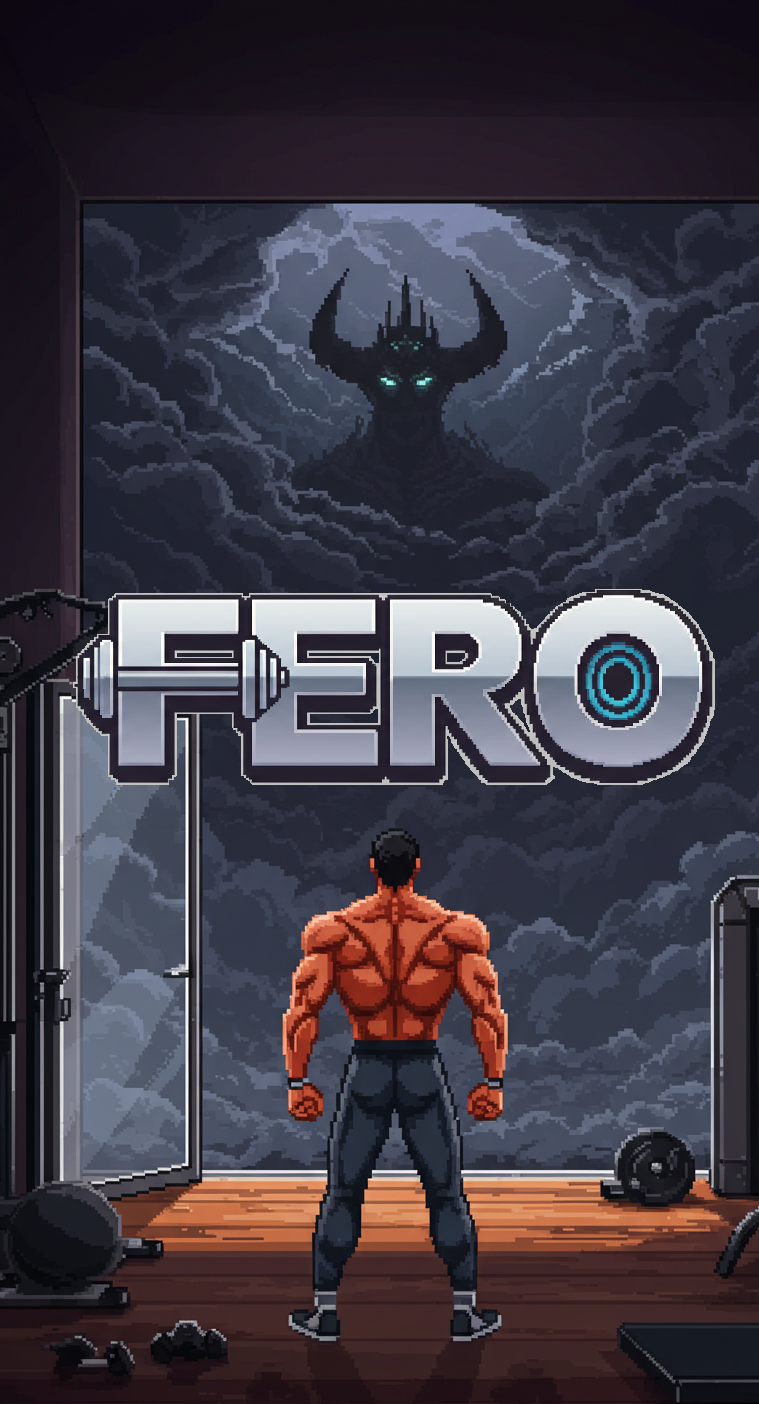
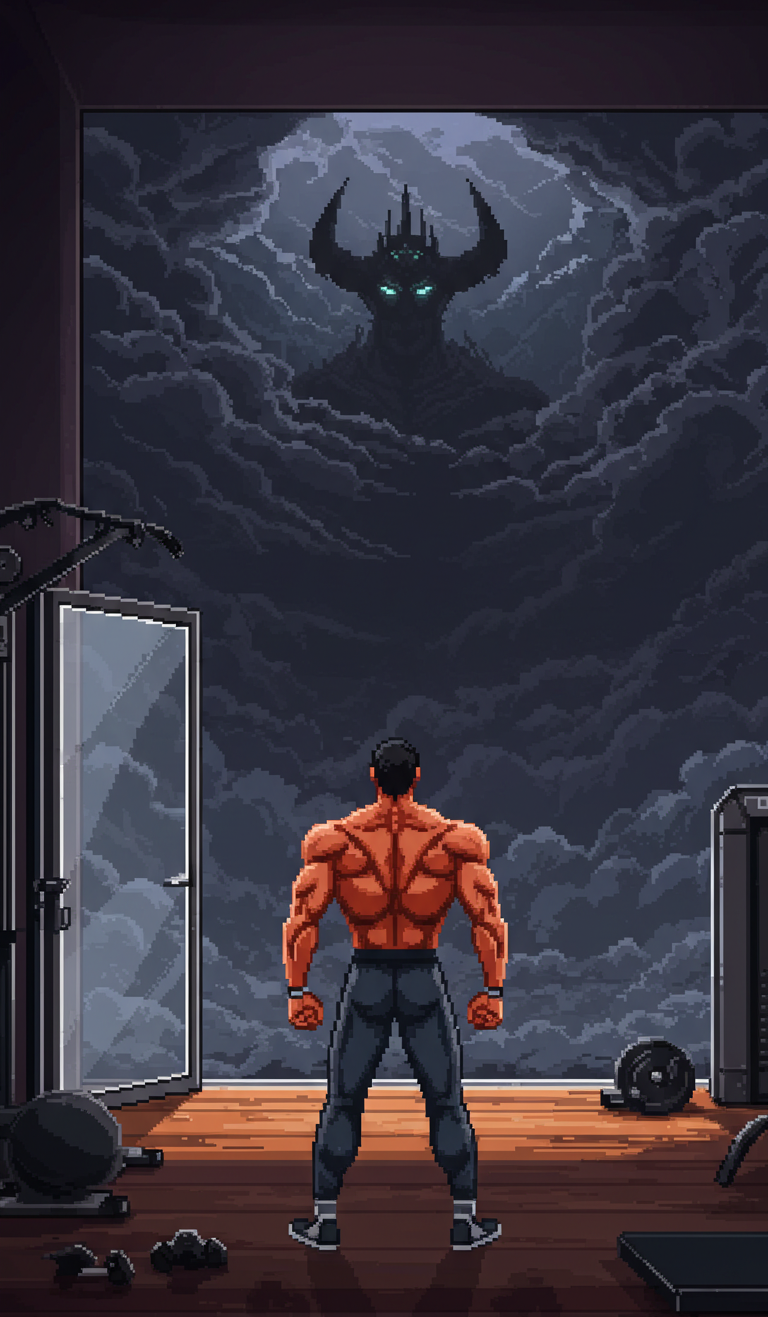
fix: 로고 위치 수정

diff --git a/frontend/src/views/StartPage.vue b/frontend/src/views/StartPage.vue
@@ -1,13 +1,23 @@
 <template>
-  <div class="relative flex justify-center items-center min-h-screen overflow-hidden">
+  <div class="fixed inset-0 flex flex-col justify-center items-center overflow-hidden">
     <audio ref="audioPlayer" loop>
       <source :src="require('@/assets/background_music.mp3')" type="audio/mp3">
     </audio>
+    <!-- 배경 이미지 -->
     <img 
       src="@/assets/images/background_startpage.png" 
       alt="배경이미지 로딩 에러" 
-      class="absolute top-1/2 left-1/2 -translate-x-1/2 -translate-y-1/2 w-full h-auto object-contain -z-10"
+      class="absolute inset-0 w-full h-full object-cover -z-10"
     >
+    <!-- 로고 이미지 -->
+    <div class="absolute top-[35%] left-1/2 -translate-x-1/2 -translate-y-1/2 w-full flex justify-center">
+      <img 
+        src="@/assets/images/logo.png" 
+        alt="로고 이미지" 
+        class="w-[80%] max-w-4xl"
+      >
+    </div>
+    <!-- 시작 버튼 -->
     <button 
       @click="goToMain"
       class="fixed bottom-[5%] left-1/2 -translate-x-1/2 
@@ -27,54 +37,21 @@
   </div>
 </template>
 
-<script setup>
-import '@fontsource/press-start-2p'
-import { ref, onMounted, onUnmounted } from 'vue'
-import { useRouter } from 'vue-router'
-import SignInUp from '@/components/modal/SignInUp.vue'
-
-const router = useRouter()
-const showModal = ref(false)
-const audioPlayer = ref(null)
-
-const token = localStorage.getItem('authToken')
-
-const goToMain = async () => {
-  if (!token) {
-    showModal.value = true
-  } else {
-    try {
-      await router.push('/main')
-    } catch (error) {
-      console.error('라우팅 에러:', error)
-    }
-  }
-}
-
-const closeModal = () => { 
-  showModal.value = false 
-}
-
-const playMusic = () => {
-  if (audioPlayer.value) {
-    audioPlayer.value.play()
-      .catch(error => console.log('음악 재생 실패:', error))
-  }
-}
-
-onMounted(() => {
-  document.addEventListener('click', playMusic, { once: true })
-})
-
-onUnmounted(() => {
-  document.removeEventListener('click', playMusic)
-  if (audioPlayer.value) {
-    audioPlayer.value.pause()
-  }
-})
-</script>
 
 <style scoped>
+/* 전체 페이지 스크롤 방지 */
+:root {
+  overflow: hidden;
+  height: 100%;
+}
+
+body {
+  overflow: hidden;
+  height: 100%;
+  position: fixed;
+  width: 100%;
+}
+
 @keyframes blink {
   0%, 100% {
     opacity: 1;
@@ -127,3 +104,50 @@ onUnmounted(() => {
   }
 }
 </style>
+
+<script setup>
+import '@fontsource/press-start-2p'
+import { ref, onMounted, onUnmounted } from 'vue'
+import { useRouter } from 'vue-router'
+import SignInUp from '@/components/modal/SignInUp.vue'
+
+const router = useRouter()
+const showModal = ref(false)
+const audioPlayer = ref(null)
+
+const token = localStorage.getItem('authToken')
+
+const goToMain = async () => {
+  if (!token) {
+    showModal.value = true
+  } else {
+    try {
+      await router.push('/main')
+    } catch (error) {
+      console.error('라우팅 에러:', error)
+    }
+  }
+}
+
+const closeModal = () => { 
+  showModal.value = false 
+}
+
+const playMusic = () => {
+  if (audioPlayer.value) {
+    audioPlayer.value.play()
+      .catch(error => console.log('음악 재생 실패:', error))
+  }
+}
+
+onMounted(() => {
+  document.addEventListener('click', playMusic, { once: true })
+})
+
+onUnmounted(() => {
+  document.removeEventListener('click', playMusic)
+  if (audioPlayer.value) {
+    audioPlayer.value.pause()
+  }
+})
+</script>
